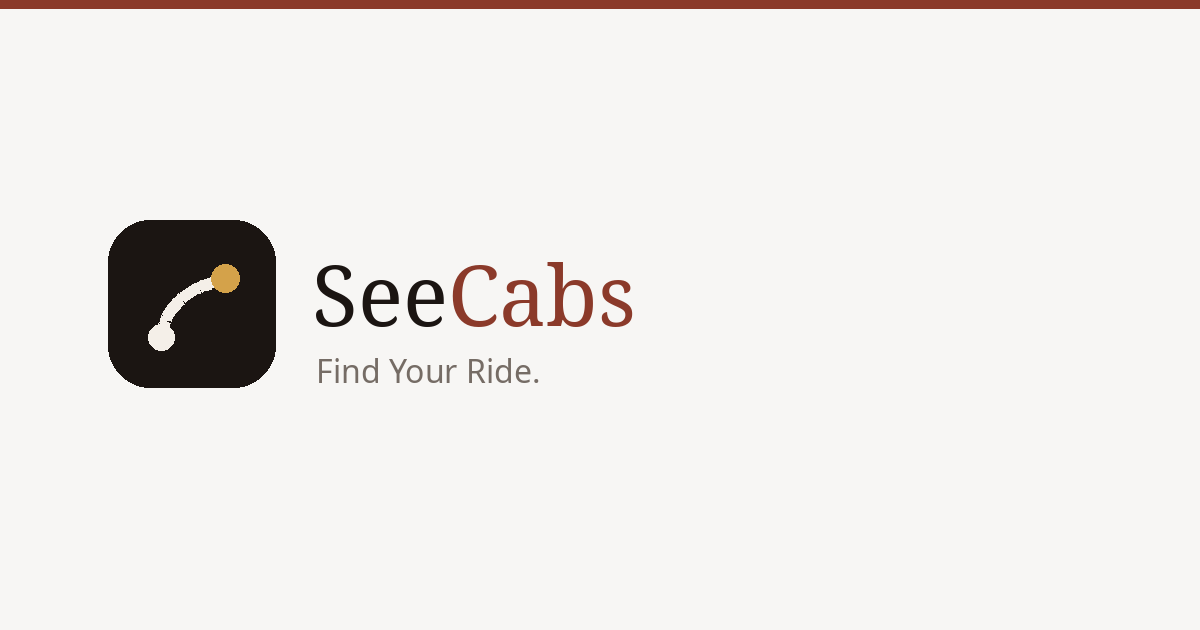
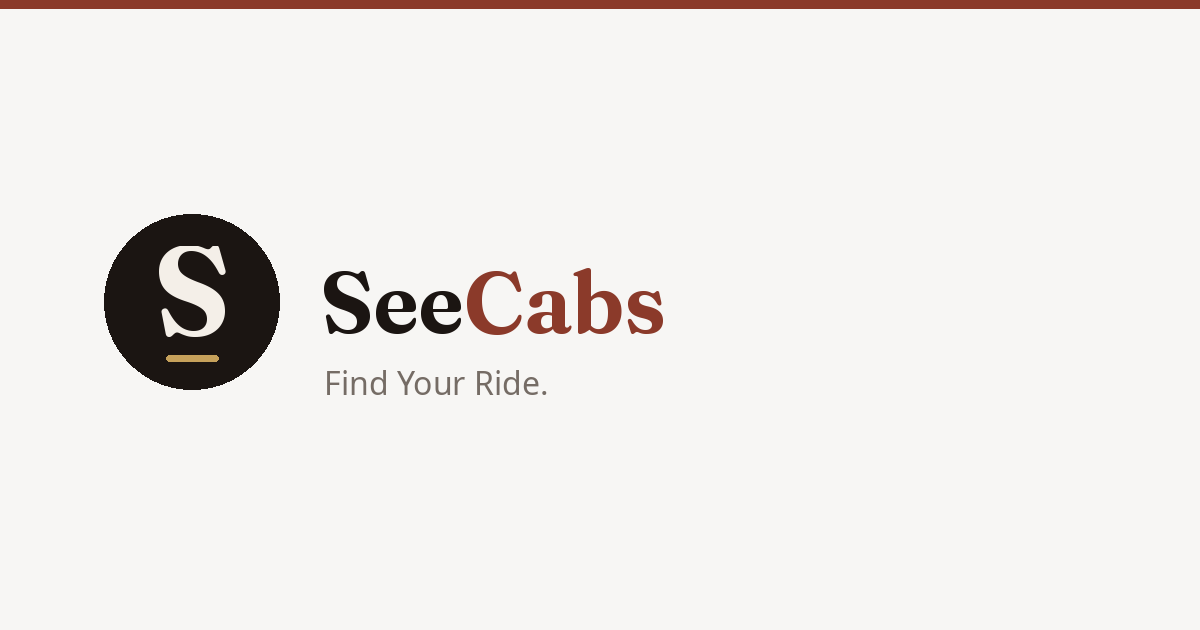
Replace the route doodle with a monogram seal.
The mark is a set Fraunces S in an ink circle, with a short gold rule. The name beside it stays SeeCabs.

Changed region(s): [[0.2467, 0.4222, 0.555, 0.5429], [0.0925, 0.3317, 0.2467, 0.6333], [0.185, 0.5429, 0.4625, 0.6333]]

diff --git a/src/components/logo-mark.tsx b/src/components/logo-mark.tsx
@@ -1,16 +1,9 @@
 export function LogoMark({ className = "h-8 w-8" }: { className?: string }) {
   return (
     <svg viewBox="0 0 32 32" aria-hidden="true" className={`logo-mark ${className}`}>
-      <rect width="32" height="32" rx="8" fill="#1B1512" />
-      <path
-        d="M10.2 22.4C11.4 15.2 16.2 12.6 22.4 11.2"
-        fill="none"
-        stroke="#F4EFE8"
-        strokeWidth="2.35"
-        strokeLinecap="round"
-      />
-      <circle cx="10.2" cy="22.4" r="2.55" fill="#F4EFE8" />
-      <circle cx="22.4" cy="11.2" r="2.7" fill="#D4A24A" />
+      <circle cx="16" cy="16" r="16" fill="#1B1512"/>
+        <path fill="#F4EFE8" fillRule="evenodd" d="M16.51 23.41Q15.58 23.41 14.93 23.19Q14.28 22.97 13.86 22.75Q13.45 22.53 13.23 22.53Q13.02 22.53 12.85 22.67Q12.67 22.81 12.51 22.99Q12.35 23.17 12.18 23.31Q12.00 23.45 11.79 23.45Q11.55 23.45 11.38 23.30Q11.22 23.15 11.16 22.82L10.40 18.85Q10.36 18.61 10.46 18.43Q10.57 18.26 10.82 18.17Q11.08 18.07 11.29 18.18Q11.49 18.28 11.64 18.58Q12.36 19.98 13.11 20.78Q13.86 21.58 14.64 21.91Q15.43 22.24 16.24 22.24Q17.37 22.24 18.03 21.66Q18.69 21.08 18.69 20.07Q18.69 19.42 18.39 18.89Q18.09 18.36 17.24 17.87Q16.40 17.39 14.77 16.87Q13.01 16.30 11.94 15.56Q10.87 14.81 10.40 13.81Q9.92 12.80 9.92 11.47Q9.92 10.06 10.60 8.98Q11.28 7.90 12.52 7.30Q13.76 6.69 15.41 6.69Q16.42 6.69 17.08 6.90Q17.75 7.10 18.18 7.30Q18.61 7.51 18.90 7.51Q19.15 7.51 19.34 7.30Q19.52 7.09 19.72 6.87Q19.92 6.65 20.23 6.65Q20.48 6.65 20.66 6.81Q20.83 6.97 20.95 7.41L22.04 11.34Q22.13 11.64 22.02 11.87Q21.92 12.10 21.66 12.19Q21.39 12.28 21.19 12.17Q20.98 12.07 20.84 11.80Q20.08 10.30 19.24 9.44Q18.41 8.58 17.55 8.22Q16.69 7.86 15.82 7.86Q14.71 7.86 14.05 8.50Q13.40 9.14 13.40 10.19Q13.40 10.84 13.69 11.38Q13.99 11.93 14.81 12.45Q15.63 12.97 17.20 13.53Q18.99 14.17 20.05 14.91Q21.11 15.65 21.57 16.59Q22.04 17.52 22.03 18.74Q22.03 20.03 21.37 21.09Q20.72 22.15 19.49 22.78Q18.25 23.41 16.51 23.41Z"/>
+        <rect x="11.4" y="26.55" width="9.2" height="1.05" rx="0.2" fill="#C6A15B"/>
     </svg>
   );
 }
